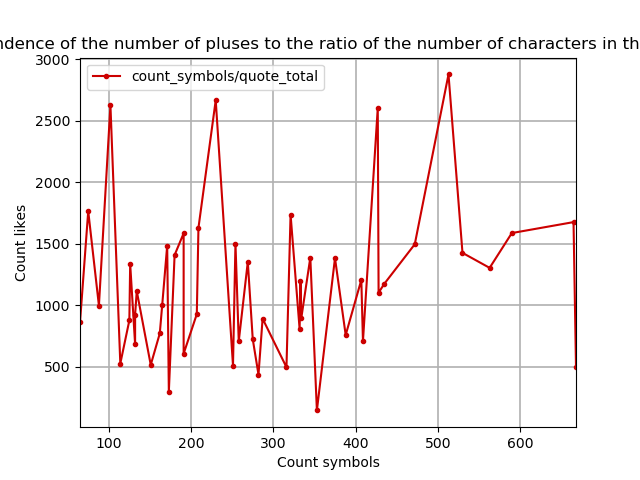
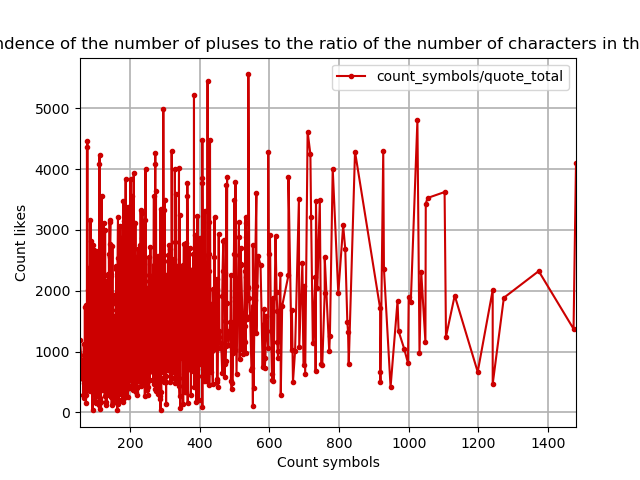
edits

diff --git a/bashorg_parser.py b/bashorg_parser.py
@@ -4,6 +4,7 @@
 #frequency of the word "joke"
 #graph of the number of "likes"
 #table with the distribution of the number of posts by date
+from asyncore import file_dispatcher
 
 import requests
 import os
@@ -18,7 +19,8 @@ from bs4 import BeautifulSoup as bs
 headers = {'accept': '*/*',
            'user-agent': 'Mozilla/5.0 (Windows NT 10.0; Win64; x64; rv:72.0) Gecko/20100101 Firefox/72.0'}
 base_Url = 'https://bash.im'
-count_pg_to_parse = 2
+count_pg_to_parse = 50
+find_word = 'шутка'
 pages_url_List = []
 column_Names = ['quote_Number', 'quote_text', 'count_symbols', 'quote_total', 'quote_date', 'quote_link']
 parsed_Data_Df = pd.DataFrame(columns = column_Names)
@@ -60,16 +62,15 @@ def bashorg_parse(pages_url_List, headers):
                     quote_total = int(div.find('div', attrs = {'class' : 'quote__total'}).text)
                     quote_date = div.find('div', attrs = {'class' : 'quote__header_date'}).text[9:20] # 9:20 из за len строки 34, получаем ровную
                     parsed_Data_Df.loc[len(parsed_Data_Df)] = [quote_number, quote_text, count_symbols, quote_total, quote_date, quote_href]
-
                 except:
                     pass
 
-def parallelize_parsing(pages_url_list, func, headers):
+def parallelize_parsing(pages_url_list, func, headers): #парс в 2 потока
     start_time = datetime.now().time()
     print('\n\n ------------|| START PARSING ||------------')
     print(f'\nParsing start : {start_time}')
     #a, b, c ,d, e, f = np.array_split(pages_url_list, 6)
-    a, b  = np.array_split(pages_url_list, 2)
+    a, b  = np.array_split(pages_url_list, 2) # разделение списка на 2 части
     e1 = threading.Event()
     e2 = threading.Event()
     t1 = threading.Thread(target=func, args=(a, headers))
@@ -133,9 +134,10 @@ def main():
     parallelize_parsing(create_Pages_List(base_Url, headers), bashorg_parse, headers)
 
     print(' ------------|| ANALYSIS PART ||------------\n')
-    word_Frequency(parsed_Data_Df, 'шутка')
-    print('\n | Launch graph of the number of likes with sort |')
+    word_Frequency(parsed_Data_Df, find_word)
+    print('\n | Launch dependence graph |')
     graphic_Dependence_CSymb_To_Likes(create_Dependence_df(parsed_Data_Df))
+    print('\n | Launch graph of the number of likes with sort |')
     graphic_barplot_nbr_Likes(parsed_Data_Df)
     print('\n ------------|| END ANALYSIS PART ||------------\n')
 
